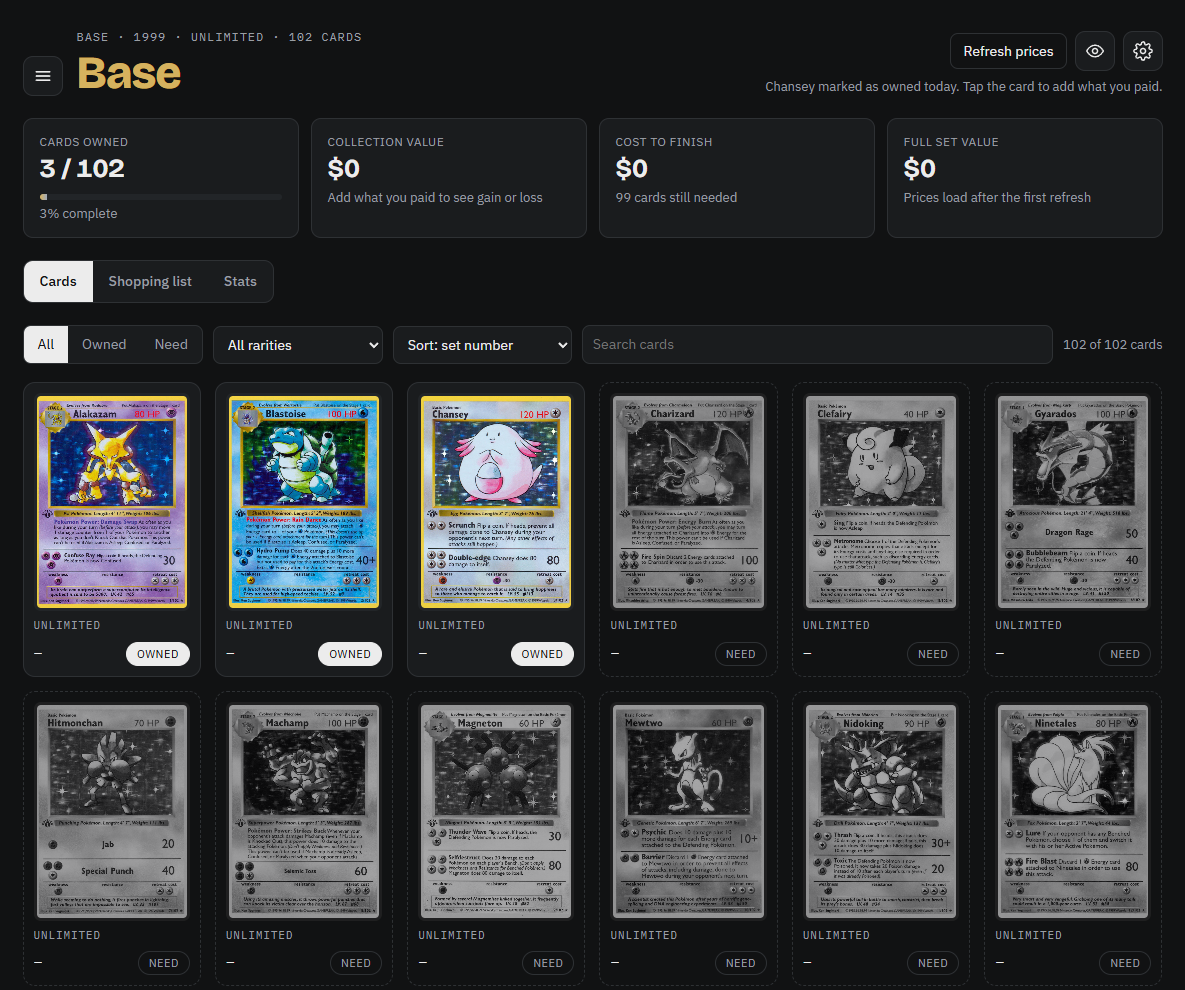
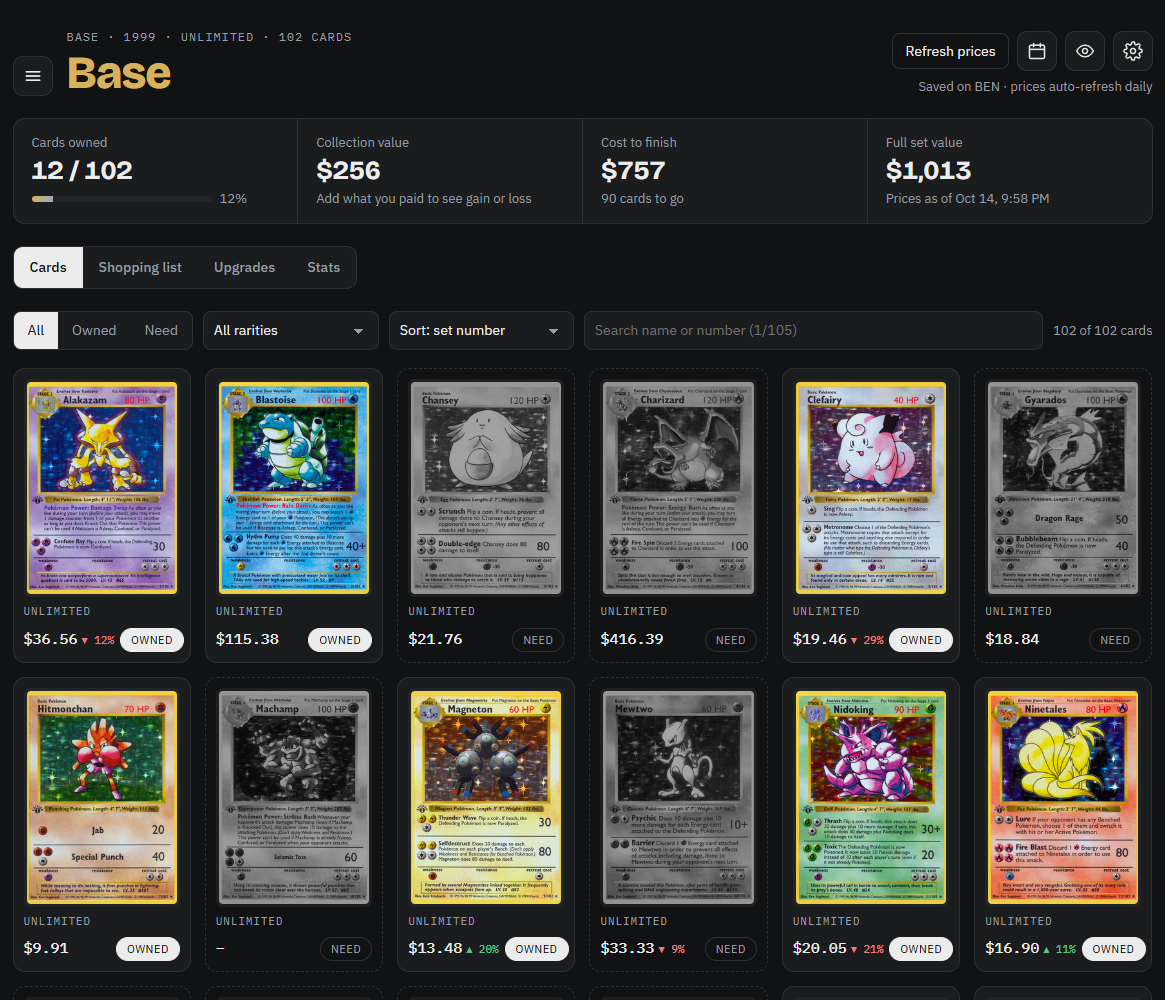
README: new screenshots
Claude-Session: https://claude.ai/code/session_0196urNjxhbT8JhPLVBSPG2g

diff --git a/README.md b/README.md
@@ -27,17 +27,29 @@ A self-hosted Pokémon TCG collection tracker. One small Python server (standard
 
 ## Screenshots
 
-**The binder.** Owned cards in color, cards you still need in greyscale, with totals at the top.
+**The binder.** Owned cards in color, cards you still need in greyscale, with totals at the top and each card's price trend.
 
 ![The binder's main page](screenshots/binder.png)
+
+**Card details.** The card, its prices from recent sales, market prices, a price chart, and the newest sales for every condition, so you can see whether a different condition is worth it.
+
+![Card details with prices and recent sales](screenshots/card-details.png)
+
+**Your copy.** Copies owned, condition, a purchase log with where you bought it and from whom, notes, and photos of your own card.
+
+![Card details, My copy tab](screenshots/my-copy.png)
+
+**All your binders.** The sets menu shows every binder with its progress and value, plus totals across all of them. (Sample binders shown.)
+
+![Sets menu with totals across binders](screenshots/sets-menu.png)
 
 **Privacy mode.** Tap the eye button: every card shows in color, Owned/Need tags disappear, and your totals blur, so nobody looking over your shoulder can tell what you own.
 
 ![Privacy mode turned on](screenshots/privacy-mode.png)
 
-**Card details.** Tap a card for its two chosen prices (LP and MP by default), copies owned, condition, purchase log with sellers, and photos of your own copy.
+**Settings.** Themes, price options, the daily price check, backups, updates and more.
 
-<img src="screenshots/card-details.png" alt="Card details panel" width="360">
+![Settings](screenshots/settings.png)
 
 ## How was this possible?
 
